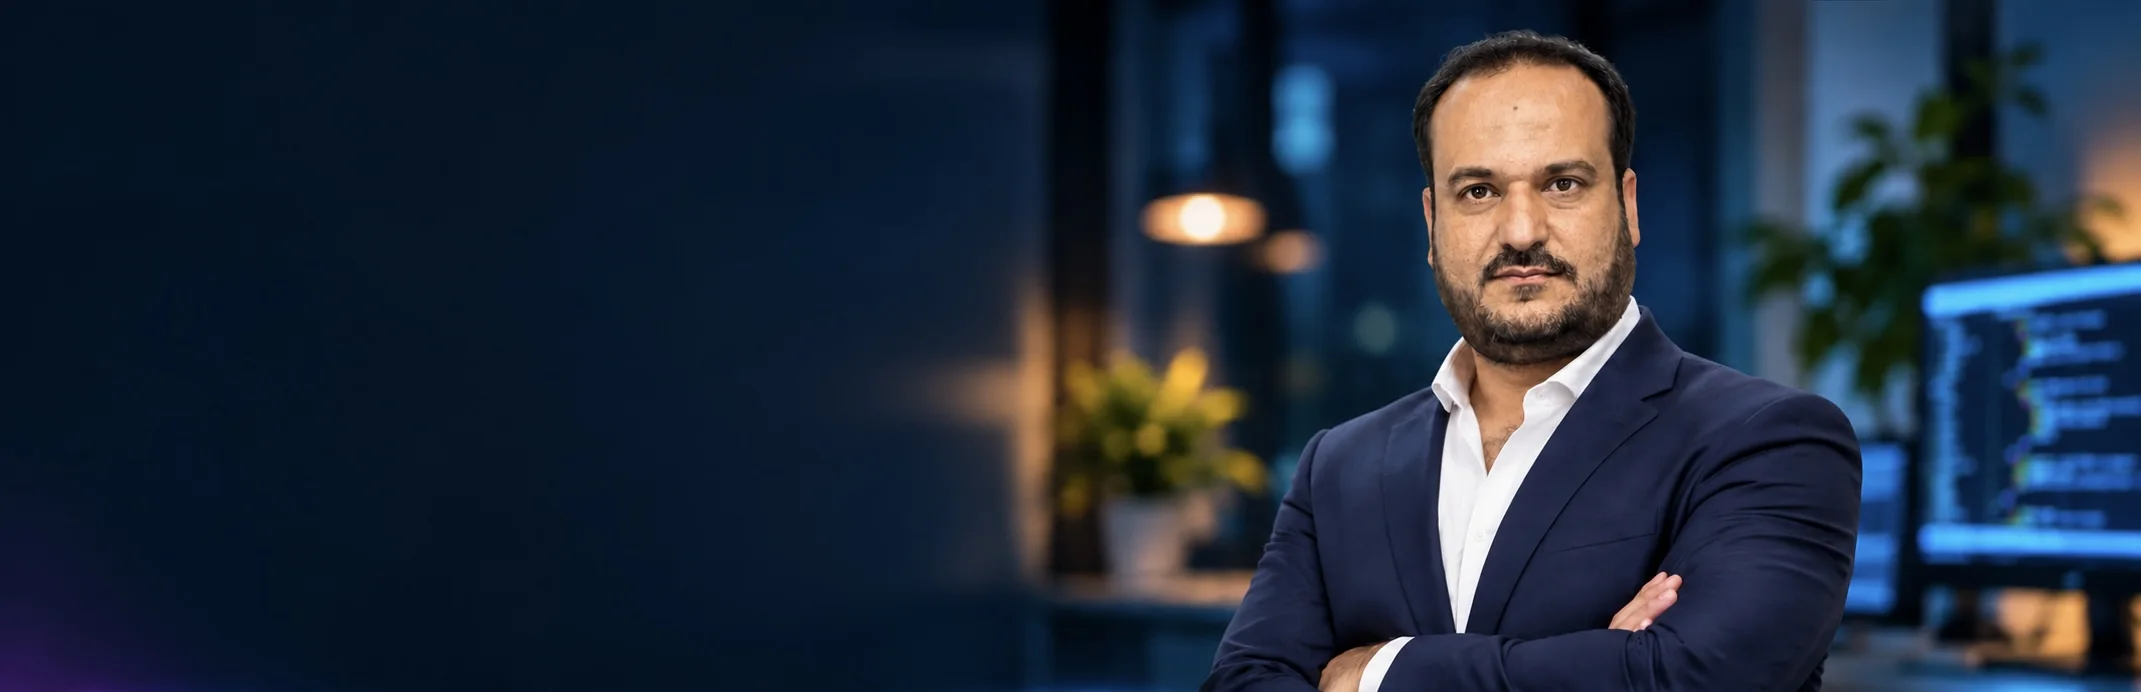
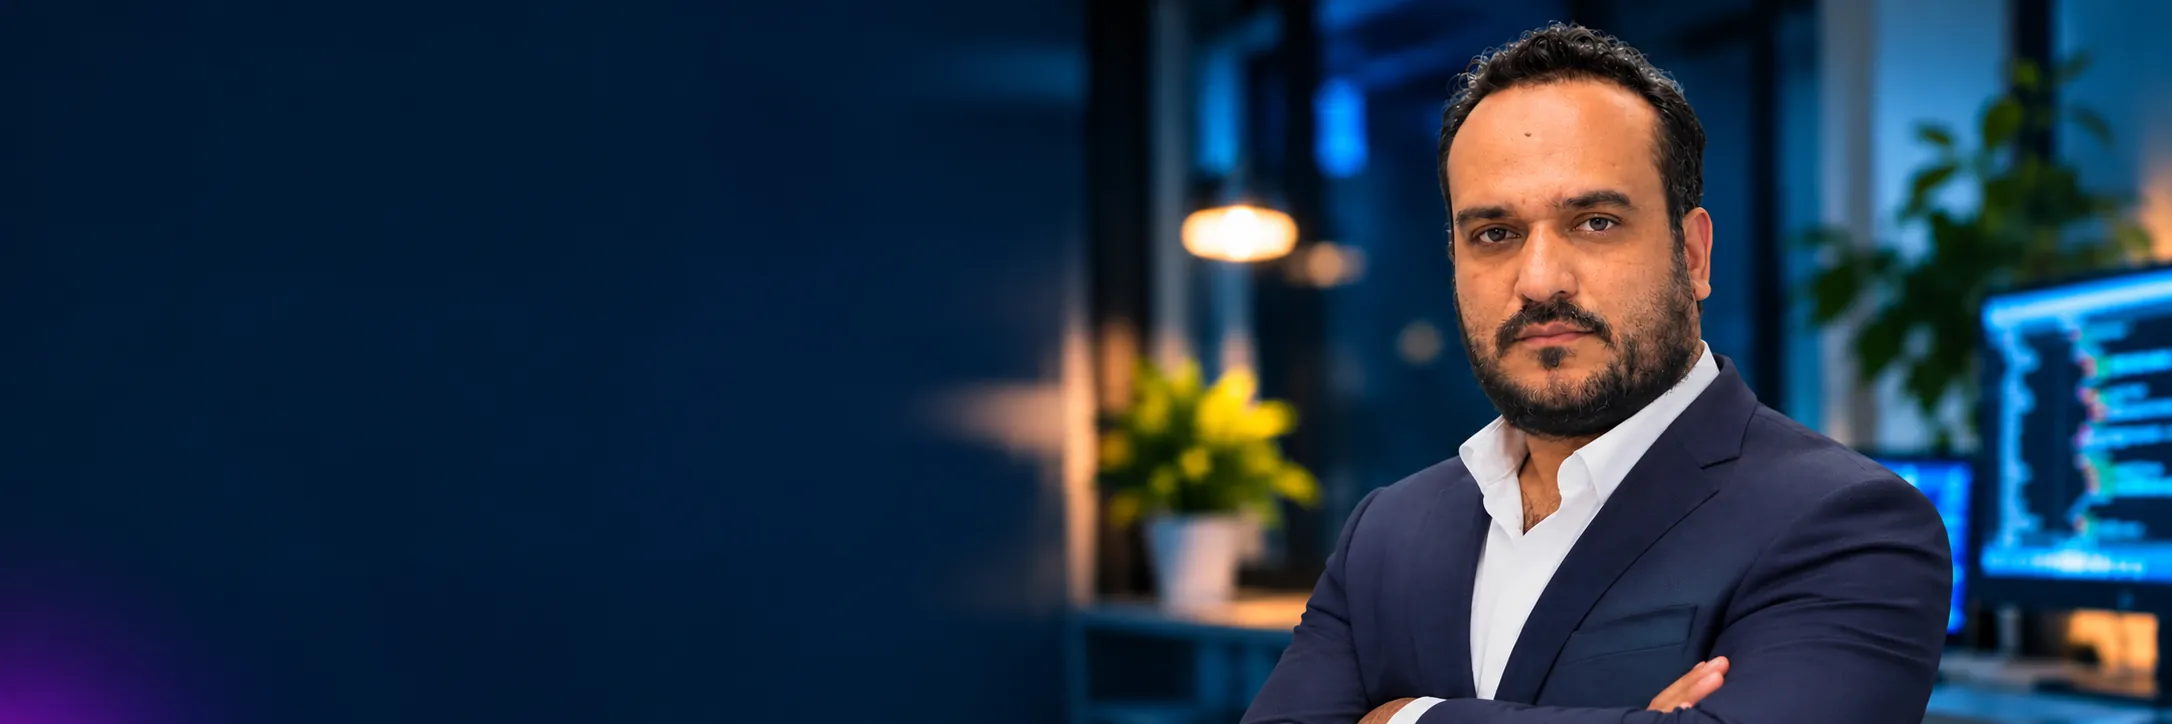
the images are changed

diff --git a/index.html b/index.html
@@ -15,12 +15,12 @@
   <meta property="og:url" content="https://www.ajmalamir.com/">
   <meta property="og:title" content="Ajmal Amir — Software Engineer | AI & Robotics">
   <meta property="og:description" content="Full-stack software engineer building scalable, secure, user-centered web, mobile, and AI applications.">
-  <meta property="og:image" content="https://www.ajmalamir.com/img/heroiamge.jpg">
+  <meta property="og:image" content="https://www.ajmalamir.com/img/heroiamge.PNG">
   <meta property="og:image:alt" content="Ajmal Amir in a modern engineering office">
   <meta name="twitter:card" content="summary_large_image">
   <meta name="twitter:title" content="Ajmal Amir — Software Engineer | AI & Robotics">
   <meta name="twitter:description" content="Full-stack software engineer building scalable, secure, user-centered web, mobile, and AI applications.">
-  <meta name="twitter:image" content="https://www.ajmalamir.com/img/heroiamge.jpg">
+  <meta name="twitter:image" content="https://www.ajmalamir.com/img/heroiamge.PNG">
 
   <link rel="icon" type="image/png" href="img/web/favicon.png">
   <link rel="apple-touch-icon" href="img/web/apple-touch-icon.png">
@@ -154,7 +154,7 @@
   <div class="hero__media">
     <picture>
       <source srcset="img/web/hero.webp" type="image/webp">
-      <img src="img/heroiamge.jpg" alt="Ajmal Amir, arms crossed, in a modern engineering office" width="2141" height="692" fetchpriority="high">
+      <img src="img/heroiamge.PNG" alt="Ajmal Amir, arms crossed, in a modern engineering office" width="2172" height="724" fetchpriority="high">
     </picture>
   </div>
   <div class="hero__shade" aria-hidden="true"></div>
@@ -209,7 +209,7 @@
             </picture>
             <picture class="about__img about__img--working">
               <source srcset="img/web/ajmal-working.webp" type="image/webp">
-              <img src="img/ajmal%20while%20working.png" alt="Ajmal Amir working at his desk in front of multiple monitors" width="1672" height="941" loading="lazy" decoding="async">
+              <img src="img/ajmal%20while%20working.png" alt="Ajmal Amir working at his desk in front of multiple monitors" width="1671" height="941" loading="lazy" decoding="async">
             </picture>
           </figure>
           <span class="about__reflection" aria-hidden="true"></span>

diff --git a/styles.css b/styles.css
@@ -456,6 +456,23 @@ section[id], div[id] { scroll-margin-top: calc(var(--header-h) + 12px); }
 .about__img img { width: 100%; height: 100%; object-fit: cover; object-position: 40% 50%; }
 .about__media:hover .about__img { transform: skewX(10deg) scale(1.04); }
 .about__media.is-swapped .about__img--working { opacity: 0; }
+/* Working photo: show the whole (16:9) photo inside the tall slanted frame.
+   The photo is contained within the visible part of the frame (padding skips
+   the 70px bleed past the panel edge, the 16% overscan and the slanted
+   corners); a blurred copy of the same photo fills the space around it. */
+.about__img--working::before {
+  content: "";
+  position: absolute;
+  inset: -20px;
+  background: url("img/web/ajmal-working.webp") center / cover no-repeat;
+  filter: blur(18px) brightness(.55) saturate(1.15);
+}
+.about__img--working img {
+  position: relative;
+  object-fit: contain;
+  object-position: 50% 50%;
+  padding: 0 calc(12.2% + 22px) 0 calc(12.2% + 92px);
+} /* keeps the face in the slanted frame */
 .about__reflection { /* soft light pooling beneath the image */
   position: absolute;
   left: 0; right: 40px; bottom: 40px;
@@ -627,6 +644,7 @@ section[id], div[id] { scroll-margin-top: calc(var(--header-h) + 12px); }
   .about__visual { order: 2; padding: 0 20px 26px; }
   .about__media { margin: 0; height: auto; min-height: 0; aspect-ratio: 16 / 10; transform: none; border-radius: 20px; }
   .about__img { inset: 0; transform: none; }
+  .about__img--working img { padding: 0; }
   .about__media:hover .about__img { transform: scale(1.03); }
   .about__reflection { left: 20px; right: 20px; bottom: 6px; height: 40px; }
   .about__body > p, .about__divider, .checklist { order: 3; margin-left: 20px; margin-right: 20px; }
